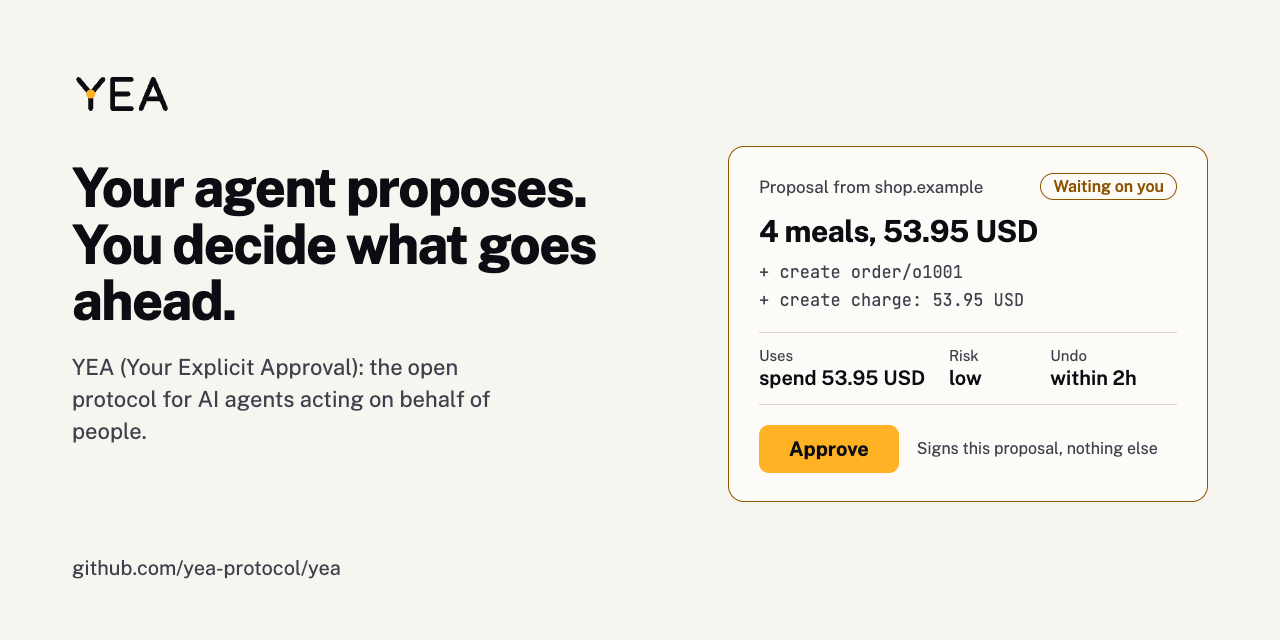
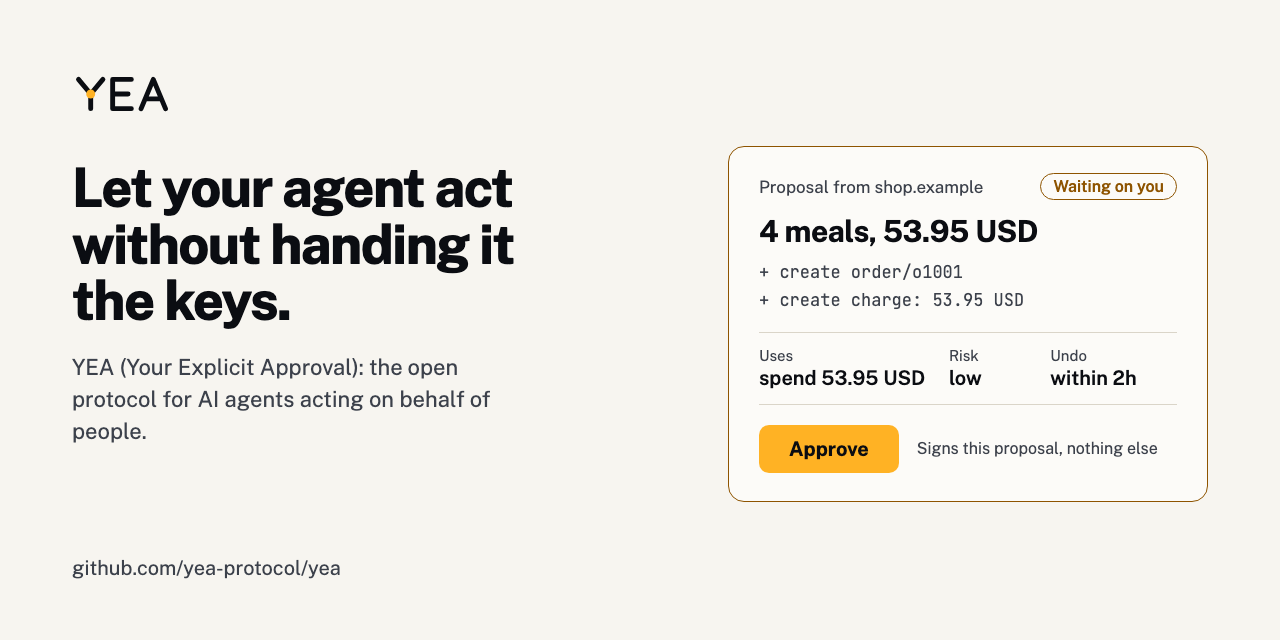
site: a headline for developers: let your agent act without handing it the keys (#249)
The old headline described the flow but not why a developer would want it,
and "proposes" is the service's job, not the agent's. The lede now says how:
the agent carries a policy the person signed instead of a raw credential.
The social card is re-rendered to match, and SPEC-docs records the decision.

Closes #249

Changed region(s): [[0.0312, 0.25, 0.4688, 0.5312]]

diff --git a/site/.vitepress/theme/components/landing/HeroSection.vue b/site/.vitepress/theme/components/landing/HeroSection.vue
@@ -1,6 +1,6 @@
 <script setup lang="ts">
 /**
- * The hero: the protocol in two sentences, then a real exchange the visitor watches and takes
+ * The hero: why the protocol matters in one line, then a real exchange the visitor watches and takes
  * part in, on the core running in the page. They pick an example (an order over the policy's
  * limit, a meeting cancellation over its risk ceiling, or a meeting move inside it); its
  * thread plays message by message (use-reveal.ts), then the slip arrives to approve, undo or
@@ -99,7 +99,7 @@ const passed = computed(() =>
     <div class="hero">
       <div class="intro">
         <div class="claim">
-          <h1 id="hero-title"><span class="sentence">Your agent proposes.</span> <span class="sentence">You decide what goes ahead.</span></h1>
+          <h1 id="hero-title"><span class="line">Let your agent act</span> <span class="line">without handing&nbsp;it the&nbsp;keys.</span></h1>
           <p class="aside">
             Unreleased: the MCP server framework installs from the repo. Guides for
             <a :href="withBase('/guide/mcp-typescript')">TypeScript</a> and <a :href="withBase('/guide/mcp-python')">Python</a>;
@@ -108,9 +108,9 @@ const passed = computed(() =>
         </div>
         <div class="pitch">
           <p class="lede">
-            YEA (Your Explicit Approval) is an open protocol for AI agents acting on behalf of people. A service answers an
-            agent with proposals that list their effects before anything happens. A policy the person signs decides what goes
-            ahead on its own; anything past it waits for their yes.
+            YEA (Your Explicit Approval) is an open protocol for AI agents acting on behalf of people. Services answer with
+            proposals that list their effects before anything happens. Instead of a raw credential, the agent carries a policy
+            the person signed: it lets routine proposals through, and anything past it waits for their yes.
           </p>
           <div class="actions">
             <a class="btn primary" :href="withBase('/playground')">Try it in the playground</a>
@@ -172,10 +172,10 @@ const passed = computed(() =>
 /* The claim, then the pitch beside it. */
 .intro { display: grid; grid-template-columns: minmax(0, 13fr) minmax(0, 10fr); gap: 20px clamp(40px, 6vw, 88px); align-items: start; }
 h1 { font-size: clamp(2.25rem, 1.75rem + 1.6vw, 3.125rem); font-weight: 650; line-height: 1.06; letter-spacing: -0.026em; }
-h1 .sentence { display: block; }
-/* Wide enough for each sentence on its own line, as intended. */
+h1 .line { display: block; }
+/* Wide enough for each half on its own line, as intended. */
 @media (min-width: 1240px) {
-  h1 .sentence { white-space: nowrap; }
+  h1 .line { white-space: nowrap; }
 }
 .claim { display: grid; gap: 16px; align-content: start; }
 .pitch { display: grid; gap: 16px; padding-top: 6px; }

diff --git a/docs/brand/social.html b/docs/brand/social.html
@@ -33,7 +33,7 @@ p { font-size: 22px; line-height: 1.45; color: var(--text-2); margin: 0; max-wid
 </style></head><body>
 <div class="words">
   <img src="logo-light.svg" height="52" alt="YEA">
-  <h1><span>Your agent proposes.</span> <span>You decide what goes ahead.</span></h1>
+  <h1><span>Let your agent act</span> <span>without handing&nbsp;it the&nbsp;keys.</span></h1>
   <p>YEA (Your Explicit Approval): the open protocol for AI agents acting on behalf of people.</p>
   <div class="foot">github.com/yea-protocol/yea</div>
 </div>

diff --git a/docs/framework/SPEC-docs.md b/docs/framework/SPEC-docs.md
@@ -130,10 +130,10 @@ The landing (`site/.vitepress/theme/components/Landing.vue`, a layout over `land
 the framework as the first of two paths after the hero: "I have an MCP server", marked
 unreleased (install from the repo), next to "I'm building an agent or service". The hero is a
 proposal slip the visitor approves, then undoes, on the real core, per James's decision of
-2026-09-28 (#117). Its headline ("Your agent proposes. You decide what goes ahead.") and its
-two buttons ("Try it in the playground", then "Add it to your MCP server", marked unreleased)
-are James's decision of 2026-09-29. The benchmark numbers are hand-typed
-constants in one module, `landing/numbers.ts`. A check compares the payload figures with
+2026-09-28 (#117). Its headline ("Let your agent act without handing it the keys.", written for
+developers, #249) is James's decision of 2026-09-30; its two buttons ("Try it in the
+playground", then "Add it to your MCP server", marked unreleased) date from 2026-09-29. The
+benchmark numbers are hand-typed constants in one module, `landing/numbers.ts`. A check compares the payload figures with
 `bench/RESULTS.md`, and the live-agent figures with `bench/agent-eval/RESULTS*.md`, and fails
 on drift.
 
